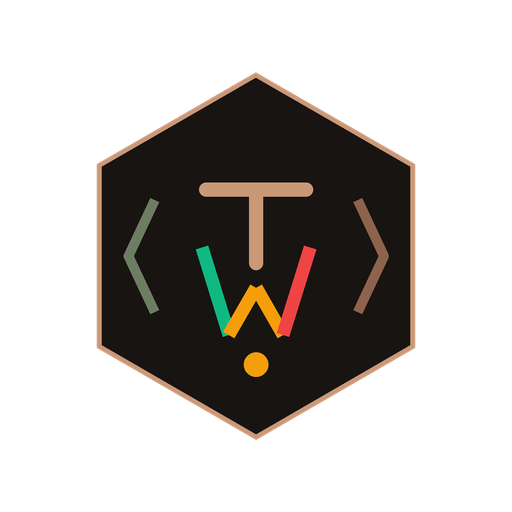
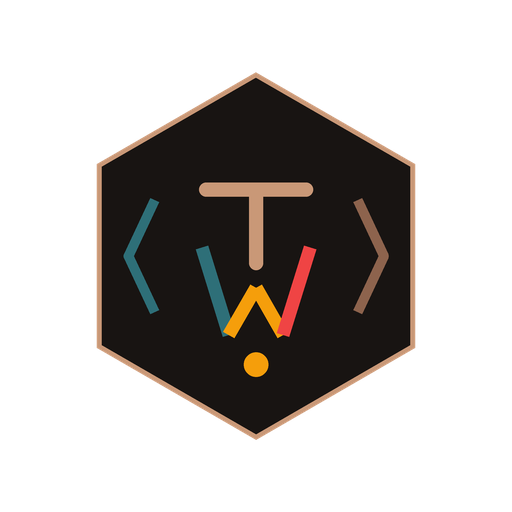
style: update secondary brand color to Deep Slate Teal (#2E6F78) for improved tech contrast

Changed region(s): [[0.2188, 0.375, 0.3125, 0.625], [0.375, 0.4688, 0.4688, 0.6562]]

diff --git a/styles.css b/styles.css
@@ -1,8 +1,8 @@
 :root {
   --primary-color: #8d634d;
   --primary-soft: #c99877;
-  --secondary-color: #6d7d63;
-  --secondary-soft: #d9e2d2;
+  --secondary-color: #2e6f78;
+  --secondary-soft: #d8ebed;
   --page-bg: #ebe8e1;
   --panel-bg: #f7f3ec;
   --card-bg: #fcf8f2;

diff --git a/preview-logos.html b/preview-logos.html
@@ -9,7 +9,7 @@
     :root {
       --primary: #8d634d;
       --primary-soft: #c99877;
-      --secondary: #6d7d63;
+      --secondary: #2E6F78;
       --page-bg: #161311;
       --card-bg: #221c18;
       --card-border: #382c24;

diff --git a/generate_tegegn_logos.py b/generate_tegegn_logos.py
@@ -1,0 +1,163 @@
+import math
+import os
+from PIL import Image, ImageDraw, ImageFont
+
+OUTPUT_DIR = "assets/images/brand"
+os.makedirs(OUTPUT_DIR, exist_ok=True)
+
+def create_canvas(width, height, scale=4, bg=(0, 0, 0, 0)):
+    w, h = width * scale, height * scale
+    return Image.new("RGBA", (w, h), bg), scale
+
+def draw_developer_badge(draw, cx, cy, radius, scale, dark=True):
+    """Draws the Tegegn Wukianos Developer Monogram (TW + Brackets + Slate Teal Accents)."""
+    c_terracotta = (141, 99, 77, 255)
+    c_ochre = (201, 152, 119, 255)
+    c_teal = (46, 111, 120, 255)      # New Deep Slate Teal (#2E6F78)
+    c_gold = (245, 158, 11, 255)
+    c_red = (239, 68, 68, 255)
+    c_green = (16, 185, 129, 255)
+    
+    # Outer Hexagon Points
+    hex_r = radius * 1.05
+    hex_pts = []
+    for i in range(6):
+        angle = math.radians(60 * i - 30)
+        hx = cx + hex_r * math.cos(angle)
+        hy = cy + hex_r * math.sin(angle)
+        hex_pts.append((hx, hy))
+        
+    bg_color = (24, 20, 18, 255) if dark else (252, 248, 242, 255)
+    border_color = c_ochre if dark else c_terracotta
+    draw.polygon(hex_pts, fill=bg_color, outline=border_color, width=int(5 * scale))
+    
+    # Left Bracket < (in Slate Teal)
+    bk_w = int(10 * scale)
+    b_offset_x = radius * 0.58
+    b_h = radius * 0.32
+    draw.line([(cx - b_offset_x, cy - b_h), (cx - b_offset_x - radius * 0.15, cy), (cx - b_offset_x, cy + b_h)],
+              fill=c_teal, width=bk_w, joint="curve")
+    
+    # Right Bracket >
+    draw.line([(cx + b_offset_x, cy - b_h), (cx + b_offset_x + radius * 0.15, cy), (cx + b_offset_x, cy + b_h)],
+              fill=c_terracotta, width=bk_w, joint="curve")
+    
+    # Monogram "T"
+    t_top_y = cy - radius * 0.42
+    t_width = radius * 0.65
+    t_bar_thick = int(14 * scale)
+    draw.rounded_rectangle([cx - t_width / 2, t_top_y, cx + t_width / 2, t_top_y + t_bar_thick],
+                           radius=t_bar_thick // 2, fill=c_ochre)
+    draw.rounded_rectangle([cx - t_bar_thick / 2, t_top_y, cx + t_bar_thick / 2, cy + radius * 0.08],
+                           radius=t_bar_thick // 2, fill=c_ochre)
+                           
+    # Monogram "W" (Interlaced dynamic strokes)
+    w_top_y = cy - radius * 0.05
+    w_bot_y = cy + radius * 0.45
+    w_mid_y = cy + radius * 0.18
+    w_w = radius * 0.62
+    
+    w_pts = [
+        (cx - w_w / 2, w_top_y),
+        (cx - w_w * 0.25, w_bot_y),
+        (cx, w_mid_y),
+        (cx + w_w * 0.25, w_bot_y),
+        (cx + w_w / 2, w_top_y)
+    ]
+    
+    w_thick = int(13 * scale)
+    draw.line([w_pts[0], w_pts[1]], fill=c_teal, width=w_thick, joint="curve")
+    draw.line([w_pts[1], w_pts[2]], fill=c_gold, width=w_thick, joint="curve")
+    draw.line([w_pts[2], w_pts[3]], fill=c_gold, width=w_thick, joint="curve")
+    draw.line([w_pts[3], w_pts[4]], fill=c_red, width=w_thick, joint="curve")
+    
+    # Center Tech Node
+    dot_r = radius * 0.07
+    draw.ellipse([cx - dot_r, cy + radius * 0.62 - dot_r, cx + dot_r, cy + radius * 0.62 + dot_r], fill=c_gold)
+
+
+def generate_mark_png():
+    size = 512
+    img, scale = create_canvas(size, size, scale=4)
+    draw = ImageDraw.Draw(img)
+    draw_developer_badge(draw, (size * scale) / 2, (size * scale) / 2, 175 * scale, scale, dark=True)
+    
+    res = img.resize((size, size), Image.Resampling.LANCZOS)
+    res.save(f"{OUTPUT_DIR}/tegegn-wukianos-mark.png", "PNG")
+    print(f"Generated {OUTPUT_DIR}/tegegn-wukianos-mark.png")
+
+
+def generate_avatar_squircle():
+    size = 512
+    img, scale = create_canvas(size, size, scale=4)
+    draw = ImageDraw.Draw(img)
+    
+    W = size * scale
+    H = size * scale
+    
+    margin = 28 * scale
+    sq_radius = 112 * scale
+    draw.rounded_rectangle([margin, margin, W - margin, H - margin],
+                           radius=sq_radius, fill=(22, 19, 17, 255), outline=(141, 99, 77, 255), width=int(4 * scale))
+    
+    for x in range(int(margin + 40 * scale), int(W - margin), int(60 * scale)):
+        draw.line([(x, margin), (x, H - margin)], fill=(255, 255, 255, 12), width=int(1.5 * scale))
+    for y in range(int(margin + 40 * scale), int(H - margin), int(60 * scale)):
+        draw.line([(margin, y), (W - margin, y)], fill=(255, 255, 255, 12), width=int(1.5 * scale))
+        
+    draw_developer_badge(draw, W / 2, H / 2 - 12 * scale, 140 * scale, scale, dark=True)
+    
+    res = img.resize((size, size), Image.Resampling.LANCZOS)
+    res.save(f"{OUTPUT_DIR}/tegegn-wukianos-avatar.png", "PNG")
+    print(f"Generated {OUTPUT_DIR}/tegegn-wukianos-avatar.png")
+
+
+def generate_favicons():
+    for fav_size in [16, 32, 48, 64, 128, 192, 512]:
+        img, scale = create_canvas(fav_size, fav_size, scale=4)
+        draw = ImageDraw.Draw(img)
+        
+        W = fav_size * scale
+        H = fav_size * scale
+        draw.rounded_rectangle([0, 0, W, H], radius=int(W * 0.22), fill=(22, 19, 17, 255))
+        draw_developer_badge(draw, W / 2, H / 2, fav_size * scale * 0.38, scale, dark=True)
+        
+        res = img.resize((fav_size, fav_size), Image.Resampling.LANCZOS)
+        res.save(f"{OUTPUT_DIR}/favicon-{fav_size}x{fav_size}.png", "PNG")
+    print("Generated Developer Favicons (16 to 512px)")
+
+
+def generate_developer_banner():
+    width = 1200
+    height = 630
+    scale = 2
+    W = width * scale
+    H = height * scale
+    img = Image.new("RGBA", (W, H), (22, 19, 17, 255))
+    draw = ImageDraw.Draw(img)
+    
+    for x in range(0, W, 70 * scale):
+        draw.line([(x, 0), (x, H)], fill=(255, 255, 255, 8), width=1 * scale)
+    for y in range(0, H, 70 * scale):
+        draw.line([(0, y), (W, y)], fill=(255, 255, 255, 8), width=1 * scale)
+        
+    badge_cx = int(W * 0.26)
+    badge_cy = int(H * 0.5)
+    draw_developer_badge(draw, badge_cx, badge_cy, 170 * scale, scale, dark=True)
+    
+    pill_x = int(W * 0.48)
+    pill_y = int(H * 0.34)
+    draw.rounded_rectangle([pill_x, pill_y, pill_x + int(360 * scale), pill_y + int(46 * scale)],
+                           radius=int(23 * scale), fill=(46, 111, 120, 60), outline=(46, 111, 120, 200), width=int(2 * scale))
+                           
+    res = img.resize((width, height), Image.Resampling.LANCZOS)
+    res.save(f"{OUTPUT_DIR}/tegegn-wukianos-social-banner.png", "PNG")
+    print(f"Generated {OUTPUT_DIR}/tegegn-wukianos-social-banner.png")
+
+
+if __name__ == "__main__":
+    generate_mark_png()
+    generate_avatar_squircle()
+    generate_favicons()
+    generate_developer_banner()
+    print("All Tegegn Wukianos brand assets updated with Deep Slate Teal!")
